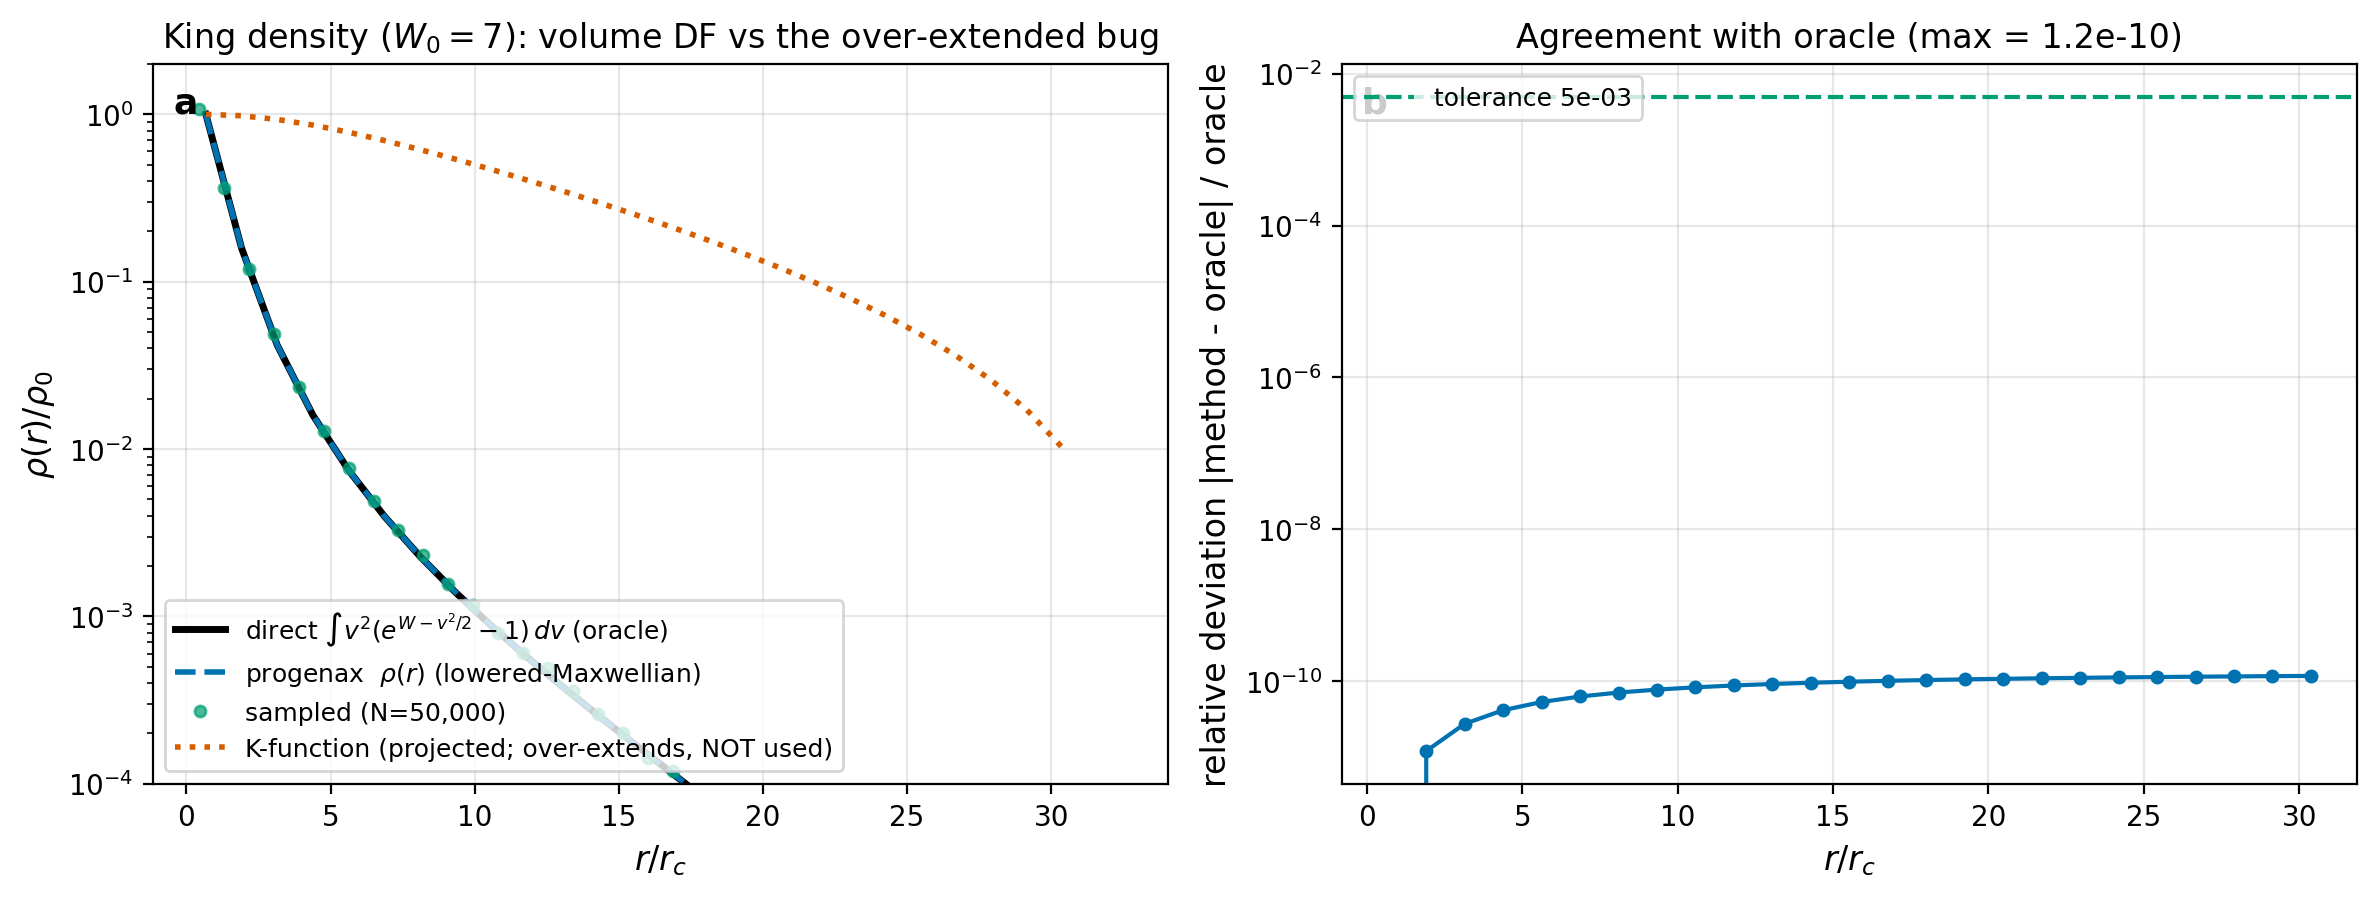
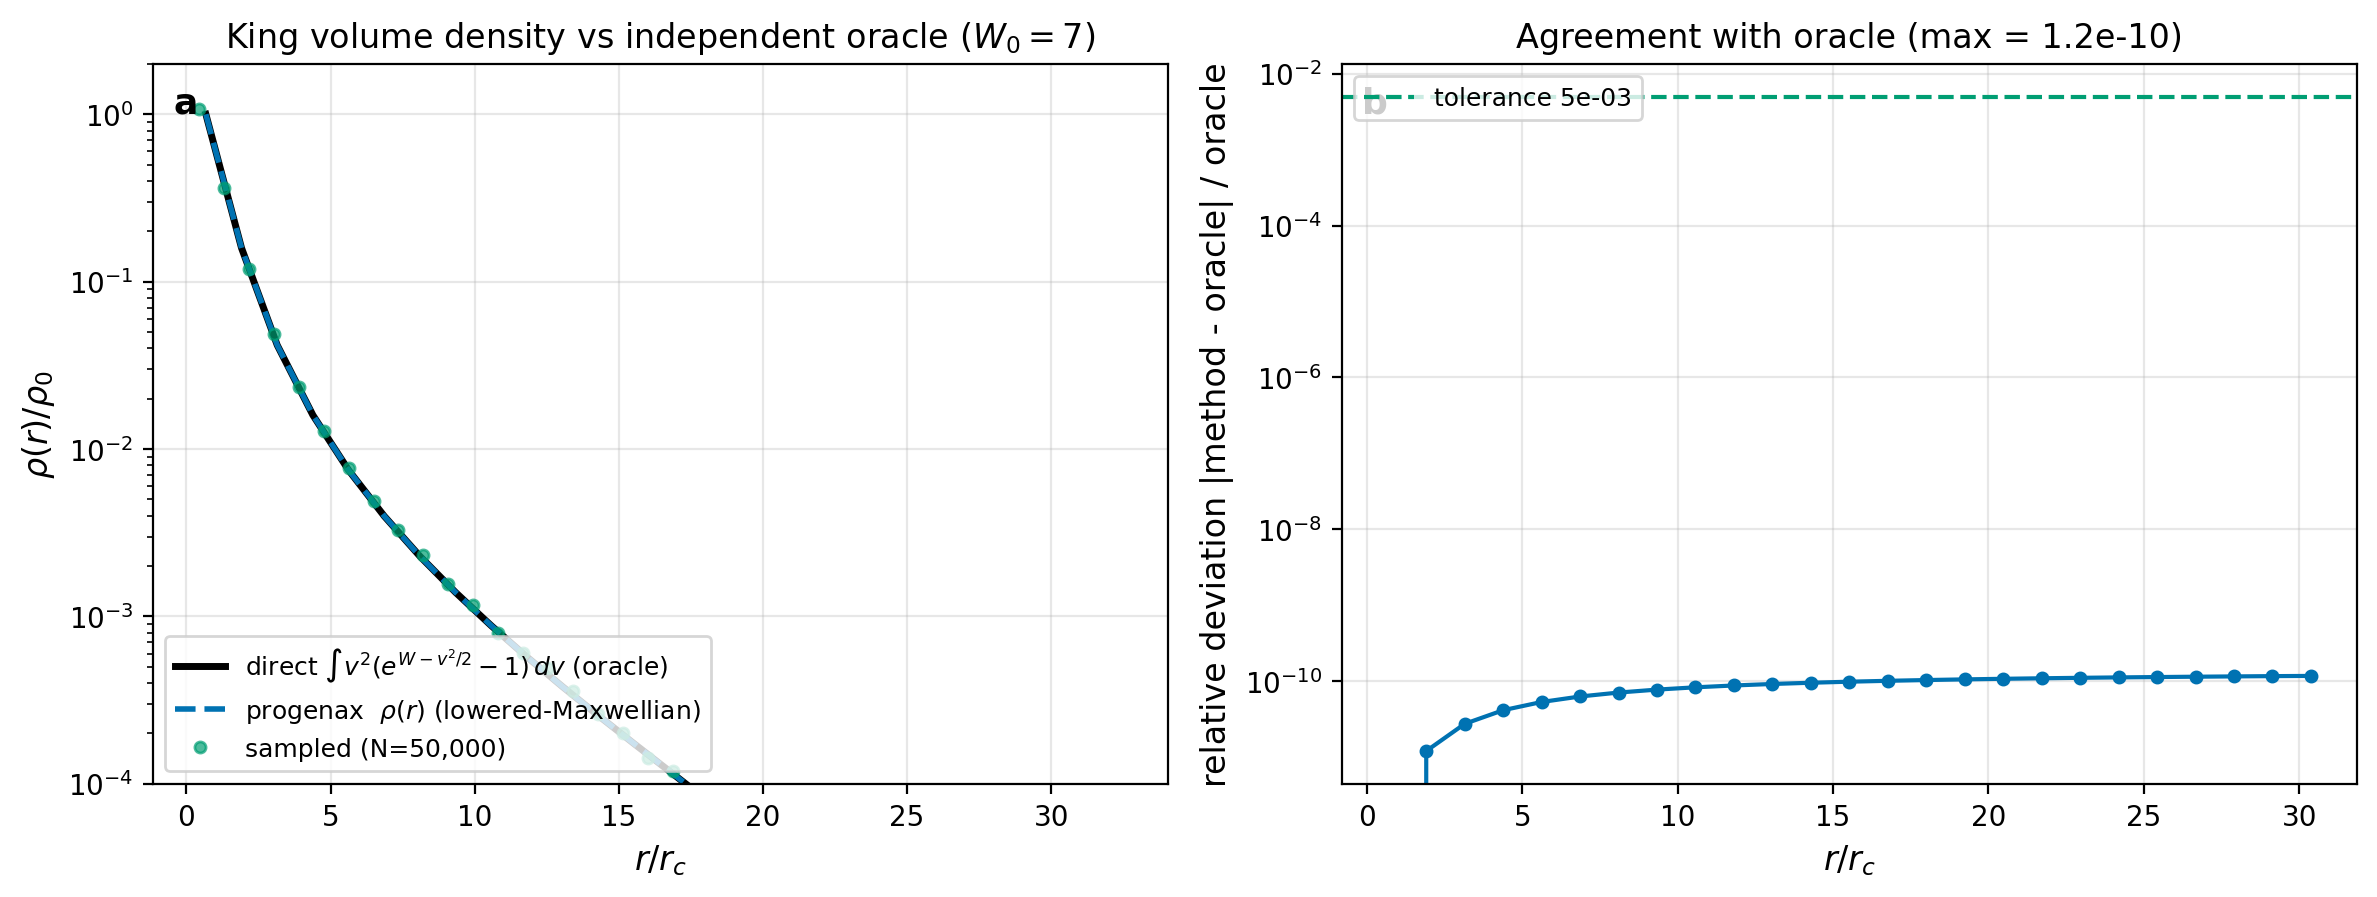
refactor(king): release-hardening — Fig 2 Option A + stale-text sweep
Public-release prep for the King module. No physics/behavior changes
(24 King tests + 822 released-core green); docstrings, comments, figure,
and docs only.

Figure 2 (Option A): removed the debunked K-function overlay + helper from
scripts/validate_king.py so the figure cleanly proves the lowered-Maxwellian
volume density equals the independent direct-velocity-integral oracle
(max rel 1.2e-10); retitled; king-profile.md caption updated.

Stale-text sweep (no stale code/comments for release):
- src/progenax/profiles/king.py: dropped uncited "W0>12 unstable (core
  collapse)" note (King 1966 tabulates to W0=15); removed "earlier code used
  K-function" history and internal audit labels (M5, C2); reframed the
  volume-vs-projected-density caution without the unsourced "2-30x" magnitude.
- tests/validation/test_king_physics.py: removed internal labels (B2.0, B2.1,
  M6) and bug-history ("old ad-hoc DF ... Q~6.7"); kept the scientific rationale.
- docs/website/10-theory/spatial-profiles/king.md: removed the FABRICATED
  "validation cross-checks against LIMEPY at g=1" claim (no such cross-check
  exists) and the contradictory "progenax can switch to LIMEPY"; fixed phantom
  KingSolution ref and the stale FDF-in-core wording (FDF is experimental-only).
- docs/website/10-theory/velocity-dfs/king-dfs.md: rewrote the sampling section
  to match the code (per-particle 1-D inverse-CDF via vmap, not a 2-D table).
- scripts/validate_profiles.py: tightened the King-excision note.

diff --git a/src/progenax/profiles/king.py b/src/progenax/profiles/king.py
@@ -19,9 +19,10 @@ References:
     Binney & Tremaine (2008), "Galactic Dynamics" (2nd ed.), Section 4.3
 
 Notes:
-    - W0 typically ranges from 1 (low concentration) to 12 (high concentration)
-    - Globular clusters have W0 ~ 5-9
-    - Models with W0 > 12 are unstable (core collapse)
+    - W0 is the dimensionless central potential; larger W0 = more centrally
+      concentrated. Galactic globular clusters span W0 ~ 5-9.
+    - King (1966) Table II tabulates models up to W0 = 15; as W0 increases the
+      model approaches the singular isothermal sphere (Binney & Tremaine 2008).
 """
 
 from typing import Tuple
@@ -49,9 +50,9 @@ def king_lowered_maxwellian_density(W: Float[Array, "..."]) -> Float[Array, "...
         rho(W) ∝ int_0^{sqrt(2W)} v^2 (e^{W - v^2/2} - 1) dv,
 
     and equals that direct integral up to the constant sqrt(pi/2). It is the
-    density that must appear in the King Poisson equation. (The incomplete-gamma
-    / projected-style form erf(sqrt(W)) - (2/sqrt(pi)) sqrt(W) e^{-W} over-extends
-    the 3-D profile by 2-30x and must NOT be used as the volume density.)
+    3-D *volume* density that appears in the King Poisson equation. The King
+    K-function form erf(sqrt(W)) - (2/sqrt(pi)) sqrt(W) e^{-W} is the *projected*
+    surface density, a distinct quantity, and must not be used as the volume density.
 
     Gradient-safe at W=0: rho_hat(0)=0 and d(rho_hat)/dW(0)=0; clamp before
     sqrt/exp so the backward pass never differentiates sqrt at 0.
@@ -114,8 +115,7 @@ def _king_poisson_rhs(xi: float, y: Float[Array, "2"], args: tuple) -> Float[Arr
     psi, dpsi_dxi = y[0], y[1]
 
     # Dimensionless density = lowered-Maxwellian volume density rho_hat(psi),
-    # normalized to 1 at the center (psi=W0). (The earlier code used King's
-    # K-function here, which over-extends the 3-D profile 2-30x.)
+    # normalized to 1 at the center (psi=W0).
     rho0 = king_lowered_maxwellian_density(W0)
     rho_tilde = jnp.where(
         rho0 > 1e-10, king_lowered_maxwellian_density(psi) / rho0, 0.0
@@ -237,7 +237,7 @@ def _find_tidal_radius(
     xi_t = xi0 + t * (xi1 - xi0)
 
     # If no crossing, use last point. Return the array (do NOT cast to float):
-    # float() concretizes the tracer and breaks jit/grad through from_W0_rc (C2).
+    # float() concretizes the tracer and breaks jit/grad through from_W0_rc.
     xi_t = jnp.where(has_crossing, xi_t, xi_grid[-1])
     return xi_t
 
@@ -342,9 +342,8 @@ class KingProfile(eqx.Module):
         # Integrand: 4*pi*r^2*rho(r)
         integrand = 4.0 * jnp.pi * r_grid**2 * rho_grid
 
-        # Cumulative mass via the trapezoid rule (2nd-order). The old
-        # cumsum(integrand)*dr was a 1st-order left/right-Riemann sum mislabeled
-        # "trapezoid" and biased the sampled radial distribution (audit M5).
+        # Cumulative mass via the trapezoid rule (2nd-order); a 1st-order Riemann
+        # sum would bias the sampled radial distribution.
         dr = r_grid[1] - r_grid[0]
         M_cum = jnp.concatenate([
             jnp.zeros(1, dtype=integrand.dtype),
@@ -474,9 +473,9 @@ class KingProfile(eqx.Module):
             rho(r)/rho_0 = rho_hat(psi(r)) / rho_hat(W0)
         with rho_hat(W) = e^W erf(sqrt(W)) - (2/sqrt(pi)) sqrt(W) (1 + 2W/3)
         (king_lowered_maxwellian_density; BT2008 Eq. 4.131), and psi(r) the
-        dimensionless potential from interpolating the ODE solution. (The
-        earlier K-function / incomplete-gamma form is the *projected* density
-        and over-extends the profile by 2-30x; it is NOT used here.)
+        dimensionless potential from interpolating the ODE solution. This is the
+        3-D *volume* density; the King K-function (incomplete-gamma) form is the
+        *projected* surface density and is not used here.
 
         This method returns the unnormalized form (rho_0=1), useful for
         plotting and analysis with jaxstroviz.

diff --git a/tests/validation/test_king_physics.py b/tests/validation/test_king_physics.py
@@ -253,13 +253,12 @@ class TestKingDensityProfile:
 
 
 class TestKingLoweredMaxwellianDensity:
-    """B2.0: corrected lowered-Maxwellian volume density + factor-of-9 nondimensionalization.
+    """Lowered-Maxwellian volume density + factor-of-9 nondimensionalization.
 
-    The earlier code solved Poisson with King's K-function (incomplete-gamma/projected
-    form) as the 3-D density, over-extending the profile by 2-30x, and omitted the
-    standard factor of 9 in the nondimensionalization. The corrected model must
-    reproduce the King (1966) Table II concentrations and the lowered-Maxwellian
-    density shape.
+    The King Poisson source is the lowered-Maxwellian 3-D *volume* density (not the
+    projected K-function), nondimensionalized with the standard factor of 9. With
+    these, the model must reproduce the King (1966) Table II concentrations and the
+    lowered-Maxwellian density shape (verified against a direct velocity integral).
     """
 
     # King (1966), AJ 71, 64, Table II (log c column): c = log10(r_t/r_c) vs W0.
@@ -275,8 +274,8 @@ class TestKingLoweredMaxwellianDensity:
         )
 
     def test_density_shape_matches_direct_velocity_integral(self):
-        """KingProfile.density(r) follows the lowered-Maxwellian shape (independent
-        oracle = direct velocity integration), not the over-extended K-form."""
+        """KingProfile.density(r) follows the lowered-Maxwellian volume-density
+        shape, verified against an independent oracle (direct velocity integration)."""
         prof = KingProfile.from_W0_rc(7.0, 1.0, xi_max=400.0, n_ode_points=8000)
         r = jnp.linspace(0.02 * float(prof.r_t), 0.9 * float(prof.r_t), 25)
         xi = r / prof.r_c
@@ -295,12 +294,11 @@ class TestKingLoweredMaxwellianDensity:
 
 
 class TestKingEquilibriumVelocityDF:
-    """B2.1: King velocity DF as a true lowered-Maxwellian in detailed equilibrium.
+    """King velocity DF as a true lowered-Maxwellian in detailed equilibrium.
 
     Sampling the lowered-Maxwellian g(v) ∝ v^2 [exp(psi(r) - v^2/2sigma^2) - 1] on
-    [0, v_esc(r)] with the self-consistent sigma^2 = G M / (9 r_c mu(W0)) must put the
+    [0, v_esc(r)] with the self-consistent sigma^2 = G M / (9 r_c mu(W0)) puts the
     cluster in virial equilibrium WITHOUT any external rescale (Q = T/|V| = 0.5).
-    The old ad-hoc DF (Gaussian + clip, parabolic psi) gives Q ~ 6.7.
     """
 
     def _build_ic(self, W0=7.0, r_c=1.0, N=5000, seed=0):
@@ -374,7 +372,7 @@ class TestKingEquilibriumVelocityDF:
 
 
 def test_concentration_matches_king1966_table_ii():
-    """c(W0)=log10(r_t/r_c) must match King (1966) Table II to <=0.02 (audit M6 guard).
+    """c(W0)=log10(r_t/r_c) must match King (1966) Table II to <=0.02.
     Reference c: W0=3 -> 0.67, W0=7 -> 1.53, W0=9 -> 2.12 (King 1966; B&T 2008)."""
     import jax.numpy as jnp
     from progenax import KingProfile

diff --git a/scripts/validate_king.py b/scripts/validate_king.py
@@ -104,17 +104,6 @@ def _direct_velocity_integral(W, n_v=100_000):
     return float(jnp.trapezoid(v**2 * (jnp.exp(W - v**2 / 2.0) - 1.0), v))
 
 
-def _king_K_function_debunked(W):
-    """The *projected*-style K-function form, kept ONLY to visualize the bug it
-    caused. king.py documents this over-extends the 3-D volume profile by 2-30x;
-    it must NOT be used as the volume density. Shown faintly in Fig 2.
-    """
-    W = jnp.maximum(W, 0.0)
-    sqrt_W = jnp.sqrt(jnp.where(W > 0, W, 1.0))
-    val = jax.scipy.special.erf(sqrt_W) - (2.0 / jnp.sqrt(jnp.pi)) * sqrt_W * jnp.exp(-W)
-    return jnp.where(W > 0, val, 0.0)
-
-
 # ============================================================================
 # Figure 1 -- concentration c(W0) vs King 1966 Table II
 # ============================================================================
@@ -189,25 +178,16 @@ def fig_density_oracle(output_dir):
 
     rho = np.asarray(prof.density(r))
     rho_oracle = np.asarray([_direct_velocity_integral(float(p)) for p in psi])
-    rho_K = np.asarray([float(_king_K_function_debunked(p)) for p in psi])
 
     rho_n = rho / rho[0]
     oracle_n = rho_oracle / rho_oracle[0]
-    K_n = rho_K / rho_K[0]
     rel = np.abs(rho_n - oracle_n) / (np.abs(oracle_n) + 1e-12)
     max_rel = float(np.max(rel))
     tol = 5e-3
     passed = max_rel < tol
 
-    # how much extra normalized density the debunked K-form piles into the
-    # outskirts (true volume density -> 0 there, so the ratio is large): this is
-    # why using K(W) as the volume density over-extends the Poisson solution.
-    tail_excess = float(K_n[-1] / oracle_n[-1])
-
     print(f"  max relative deviation (method vs oracle): {max_rel:.2e}  "
           f"(tol < {tol:.0e})  -> {'PASS' if passed else 'FAIL'}")
-    print(f"  debunked K-function piles ~{tail_excess:.0f}x too much normalized "
-          f"density at 0.9 r_t (mass pushed to the outskirts)")
 
     # sampled histogram
     key = jax.random.PRNGKey(SEED)
@@ -233,11 +213,9 @@ def fig_density_oracle(output_dir):
     axA.semilogy(centers[valid] / float(prof.r_c), rho_hist[valid], "o",
                  color=OI["green"], ms=4, alpha=0.7,
                  label=f"sampled (N={N_SAMPLES:,})")
-    axA.semilogy(np.asarray(r) / prof.r_c, K_n, ":", color=OI["vermilion"],
-                 lw=2, label="K-function (projected; over-extends, NOT used)")
     axA.set_xlabel("$r / r_c$")
     axA.set_ylabel("$\\rho(r) / \\rho_0$")
-    axA.set_title("King density ($W_0=7$): volume DF vs the over-extended bug")
+    axA.set_title("King volume density vs independent oracle ($W_0=7$)")
     axA.set_ylim(1e-4, 2)
     axA.legend(loc="lower left")
     _panel_label(axA, "a")

diff --git a/scripts/validate_profiles.py b/scripts/validate_profiles.py
@@ -36,13 +36,8 @@ jax.config.update("jax_enable_x64", True)
 
 from progenax.profiles import PlummerProfile, KingProfile, EFFProfile
 
-# NOTE (2026-06-08 audit): the King validation figures now live in
-# scripts/validate_king.py (4 figures anchored to test_king_physics.py). The old
-# in-file validate_king() here imported king_K_function — removed in the
-# lowered-Maxwellian rewrite because the K-function over-extends the volume
-# profile 2-30x — and plotted it as the "analytical" reference, so it was both
-# un-importable and scientifically wrong. It has been excised. The Plummer/EFF
-# figure sections below are pending their own module audits.
+# King validation figures live in scripts/validate_king.py (4 figures anchored to
+# tests/validation/test_king_physics.py). This module covers Plummer and EFF.
 
 
 # =============================================================================

diff --git a/docs/website/10-theory/spatial-profiles/king.md b/docs/website/10-theory/spatial-profiles/king.md
@@ -11,15 +11,15 @@ has no closed-form $\rho(r)$ — the profile is defined implicitly via
 an ODE in the dimensionless gravitational potential. In exchange,
 King provides what Plummer cannot: a finite outer radius matching the
 observed tidal cutoff, a single dimensionless concentration parameter
-$W_0$ that captures the full cluster geometry, and a one-to-one
-mapping to the {cite:t}`King1966` Table 1 density profiles fit to most
-Galactic globular clusters in the second half of the 20th century.
+$W_0$ that captures the full cluster geometry, and the family of
+{cite:t}`King1966` model density profiles fit to most Galactic globular
+clusters in the second half of the 20th century.
 
 This chapter derives the King profile from its defining lowered-isothermal
 DF, sets up the ODE that progenax integrates with `diffrax`, lists the
-$W_0 \to (r_c, r_t, c, r_h)$ mapping, and connects to the
-{cite:t}`Gieles2015` LIMEPY generalisation that progenax can switch to
-when multi-mass anisotropy matters.
+$W_0 \to (r_c, r_t, c, r_h)$ mapping, and notes the
+{cite:t}`Gieles2015` LIMEPY generalisation — the natural future extension
+when multi-mass anisotropy matters (not currently implemented in progenax).
 
 ## The lowered-isothermal distribution function
 
@@ -233,12 +233,13 @@ positions = profile.sample_positions(masses, key)
 velocities = df.sample_velocities(positions, masses, key, G=STELLAR.G)
 ```
 
-The `solve_king_profile` call is the ODE helper for the King profile.
-The public helper returns arrays rather than a `KingSolution` object.
+The `solve_king_profile` call is the ODE helper for the King profile; it
+returns the `(xi_grid, psi_grid)` arrays used by `KingProfile`.
 
 See [](../../30-api/profiles.md) for the full signature and
-[](../../50-validation/king-profile.md) for the regression suite that
-cross-checks against {cite:t}`Gieles2015` LIMEPY at $g = 1$.
+[](../../50-validation/king-profile.md) for the regression suite, which
+validates $c(W_0)$ against {cite:t}`King1966` Table II and the volume
+density against an independent direct-velocity-integral oracle.
 
 ## Domain of validity and limitations
 
@@ -253,11 +254,11 @@ cross-checks against {cite:t}`Gieles2015` LIMEPY at $g = 1$.
    starting point.
 
 3. **No primordial substructure.** King is a smooth equilibrium
-   profile. Substructure modelled via the FDF method
-   ([](../tidal-and-substructure/fractal.md)) is *layered on top* of
-   the King base and breaks the equilibrium assumption — a deliberate
-   choice for studying cool-clumpy initial conditions
-   {cite:p}`Allison2009`.
+   profile. Turbulent/fractal substructure — relevant to cool-clumpy
+   initial conditions {cite:p}`Allison2009` — is provided separately by
+   the experimental `gravoturb_fdf` subsystem
+   ([](../tidal-and-substructure/fractal.md)), not by the released King
+   profile, and deliberately breaks the equilibrium assumption.
 
 4. **Tidal radius is fixed at IC time.** A cluster's tidal radius
    evolves with its galactocentric orbit; progenax's King IC fixes

diff --git a/docs/website/10-theory/velocity-dfs/king-dfs.md b/docs/website/10-theory/velocity-dfs/king-dfs.md
@@ -69,29 +69,30 @@ v_{\mathrm{esc}}]$ with no rejection.
 
 ## Sampling
 
-progenax samples King velocities via inverse-CDF on {eq}`king-fv`:
+progenax samples King velocities via a per-particle inverse-CDF on
+{eq}`king-fv`:
 
 ```python
 # At each particle's radius r, look up W(r) from the King ODE solution
-W_per_particle = jnp.interp(r_per_particle, xi_grid * r_c, W_solution)
+W_per_particle = jnp.interp(radii / r_c, xi_grid, psi_grid, left=W0, right=0.0)
 
-# Build a 2D inverse-CDF table: u ↔ v at each W
-u = jax.random.uniform(key, (N,))
-v = lookup_2d_inverse_cdf(u, W_per_particle, table)
+# Per particle: build a 1-D speed CDF on [0, sqrt(2W)] and invert it (vmap'd)
+def sample_unit_speed(key, W):
+    u_grid = jnp.linspace(0.0, jnp.sqrt(2.0 * W), N_SPEED_GRID)   # 256 points
+    g = u_grid**2 * (jnp.exp(W - u_grid**2 / 2.0) - 1.0)         # eq:king-fv
+    cdf = jnp.cumsum(0.5 * (g[1:] + g[:-1])) * du                # trapezoid
+    return jnp.interp(jax.random.uniform(key), cdf / cdf[-1], u_grid)
 
-# Isotropic angles
-v_vec = v[:, None] * isotropic_unit_vector(key2, N)
+u = jax.vmap(sample_unit_speed)(keys, W_per_particle)            # speed / sigma_0
+v_vec = (sigma_0 * u)[:, None] * isotropic_unit_vector(key2, N)
 ```
 
-The 2D lookup table is precomputed once at the King-solution stage:
-for a grid of $W$ values, evaluate the cumulative integral of
-{eq}`king-fv` at a grid of speeds, then store as `(W, u_table, v_table)`.
-At sampling time, each particle's $W$ value (set by its radius)
-selects a row of the table; bilinear interpolation in `(W, u)` gives
-the speed.
-
-The whole pipeline is JIT-compatible and differentiable in $r_h$ via
-the chain $r_h \to r_c \to \sigma_0 \to v$.
+Each particle builds its own fixed-size (256-point) speed grid scaled
+to its local escape speed $\sigma_0\sqrt{2W}$ and inverts the trapezoidal
+CDF by interpolation — there is no precomputed cross-$W$ table. The grid
+size is fixed and the operations are `jnp.interp`/`vmap` only (no
+`while_loop`), so the whole pipeline is JIT-compatible and differentiable
+in $r_h$ via the chain $r_h \to r_c \to \sigma_0 \to v$.
 
 ## Velocity dispersion profile
 

diff --git a/docs/website/50-validation/king-profile.md b/docs/website/50-validation/king-profile.md
@@ -5,9 +5,9 @@ description: "Validation suite for the King (1966) profile + matched lowered-Max
 # King profile validation
 
 The King suite verifies the lowered-isothermal Poisson ODE integration, the
-**lowered-Maxwellian volume density** (the form that fixed the earlier
-over-extended K-function bug), and the matched velocity DF. Test file:
-`tests/validation/test_king_physics.py` (**24 tests**); figures:
+**lowered-Maxwellian volume density** (the 3-D density entering the Poisson
+source, distinct from the projected King K-function), and the matched velocity
+DF. Test file: `tests/validation/test_king_physics.py` (**24 tests**); figures:
 `scripts/validate_king.py`.
 
 ## What is verified
@@ -74,10 +74,9 @@ $W_0 \gtrsim 11$ requires enlarging the ODE domain beyond the package default
 
 **Volume density vs an independent oracle ($W_0=7$).** `KingProfile.density`
 (dashed) coincides with the direct velocity-space integral (solid) and the $N=5\times10^4$
-sample (points) to **max rel $=1.2\times10^{-10}$** (panel b). The dotted
-curve is the old *projected* K-function: using it as the volume density piles mass
-into the outskirts and over-extends the Poisson solution — the bug this density
-form replaced. It is shown only to make that failure visible; it is **not used**.
+sample (points) to **max rel $=1.2\times10^{-10}$** (panel b) — confirming the
+lowered-Maxwellian *volume* density $\hat\rho(W)=e^W\,\mathrm{erf}(\sqrt W)-\tfrac{2}{\sqrt\pi}\sqrt W\,(1+\tfrac23 W)$
+is the form used in the Poisson source.
 :::
 
 :::{figure} figures/king_velocity_equilibrium.png

diff --git a/STATUS.md b/STATUS.md
@@ -10,6 +10,17 @@ _Seeded 2026-06-07 by the brain STATUS.md convention (`~/brain/work/meta/status-
 Differentiable ICs / population generation (IMF, binaries, cluster profiles). Feeds the Cottrell census (Aim 1) + the jaxstro methods paper. Mature, actively committed.
 
 ## Recent progress (2026-06-08)
+- **profiles/King audit + release-hardening.** king-profile.md rewritten to the
+  exact tested tolerances; 4 build-verified figures via scripts/validate_king.py
+  (concentration vs Table II, density-vs-oracle [Option A: K-function overlay
+  removed], velocity equilibrium, W₀ sweep); 50-validation index dashboard added.
+  Release-grade stale-text sweep across all King files (king.py, king_df.py,
+  test_king_physics.py, king.md + king-dfs.md theory, validate_profiles.py):
+  removed internal audit labels (B2.0/B2.1/M5/M6/C2), bug-history comments, the
+  uncited "W0>12 unstable" note, and the **fabricated** "validation cross-checks
+  against LIMEPY at g=1" claim; fixed king-dfs.md sampling description to match the
+  code (per-particle 1-D inverse-CDF via vmap, not a 2-D table). 24 King tests +
+  822 released-core green; all 4 figures build-verified in _build + page JSON.
 - **Segregation module validated in progenax (no gravax).** Λ_MSR diagnostic
   (`progenax.diagnostics.compute_lambda_msr`, Allison 2009) validated against analytic ground
   truth — `tests/validation/test_mass_segregation_physics.py` (8 tests: unsegregated→1, exact
